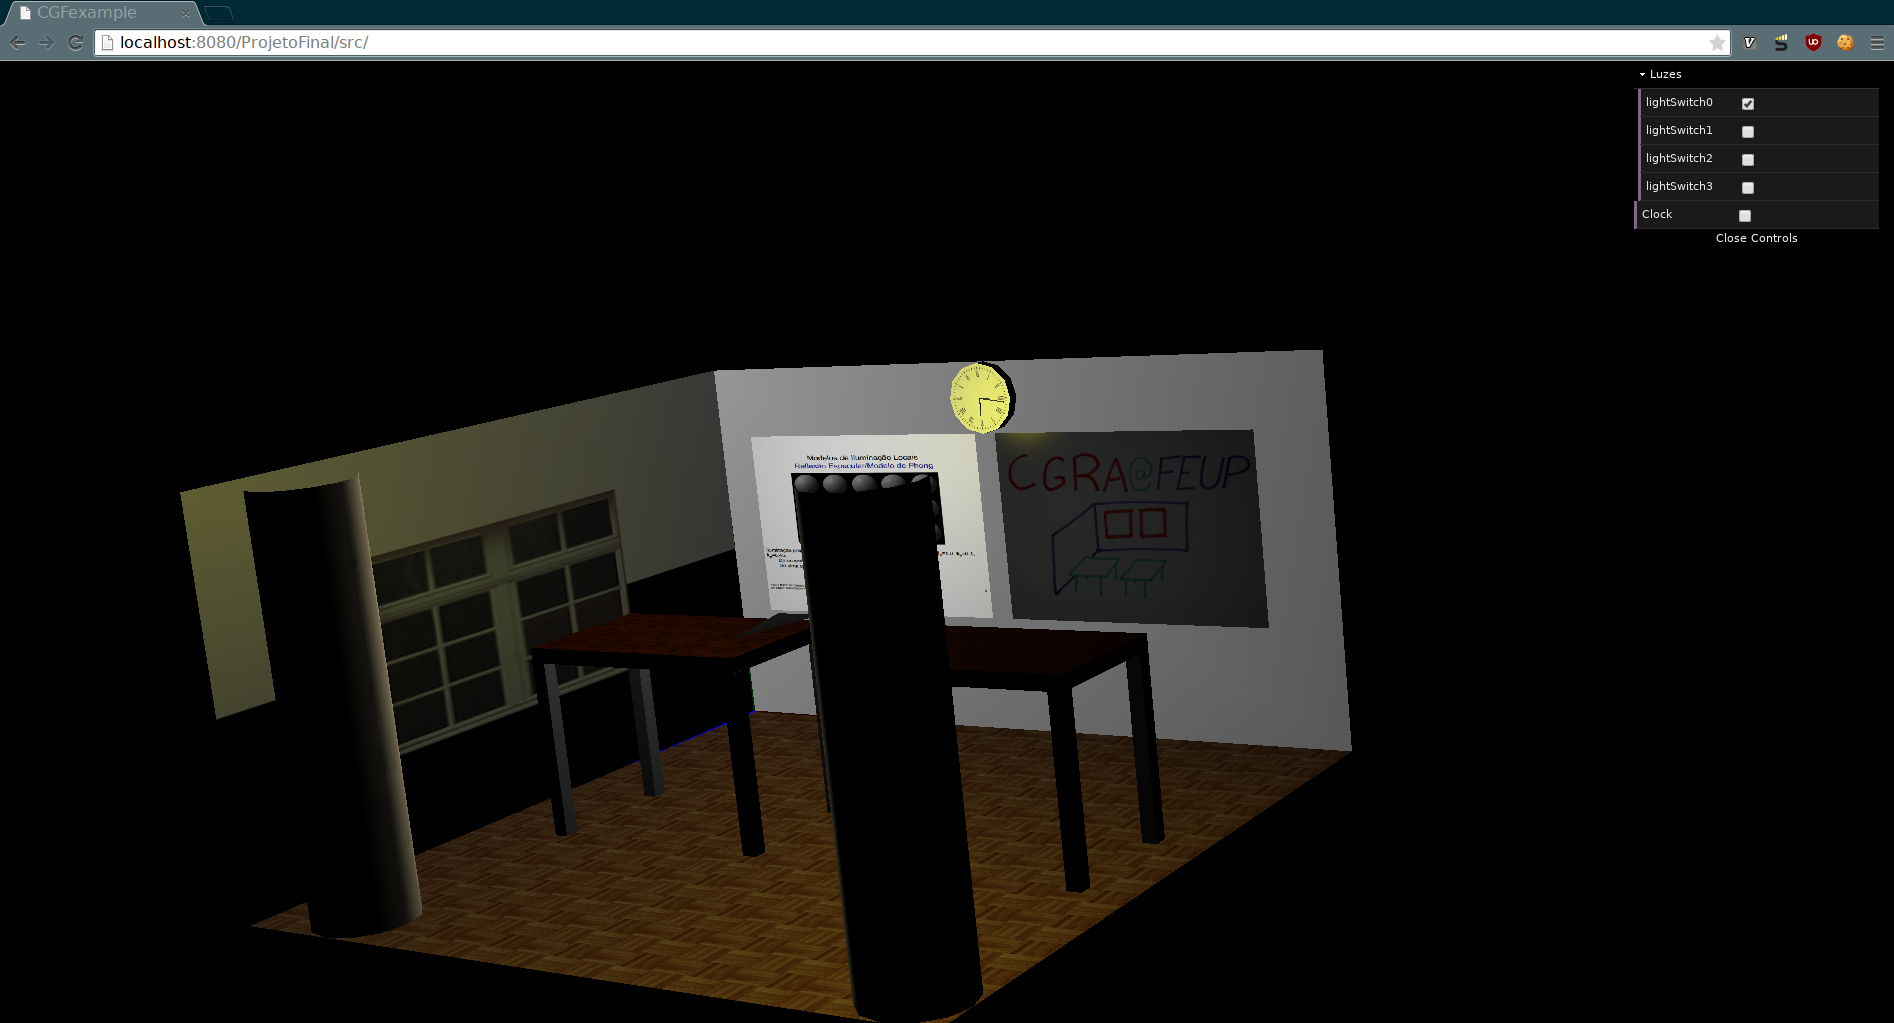
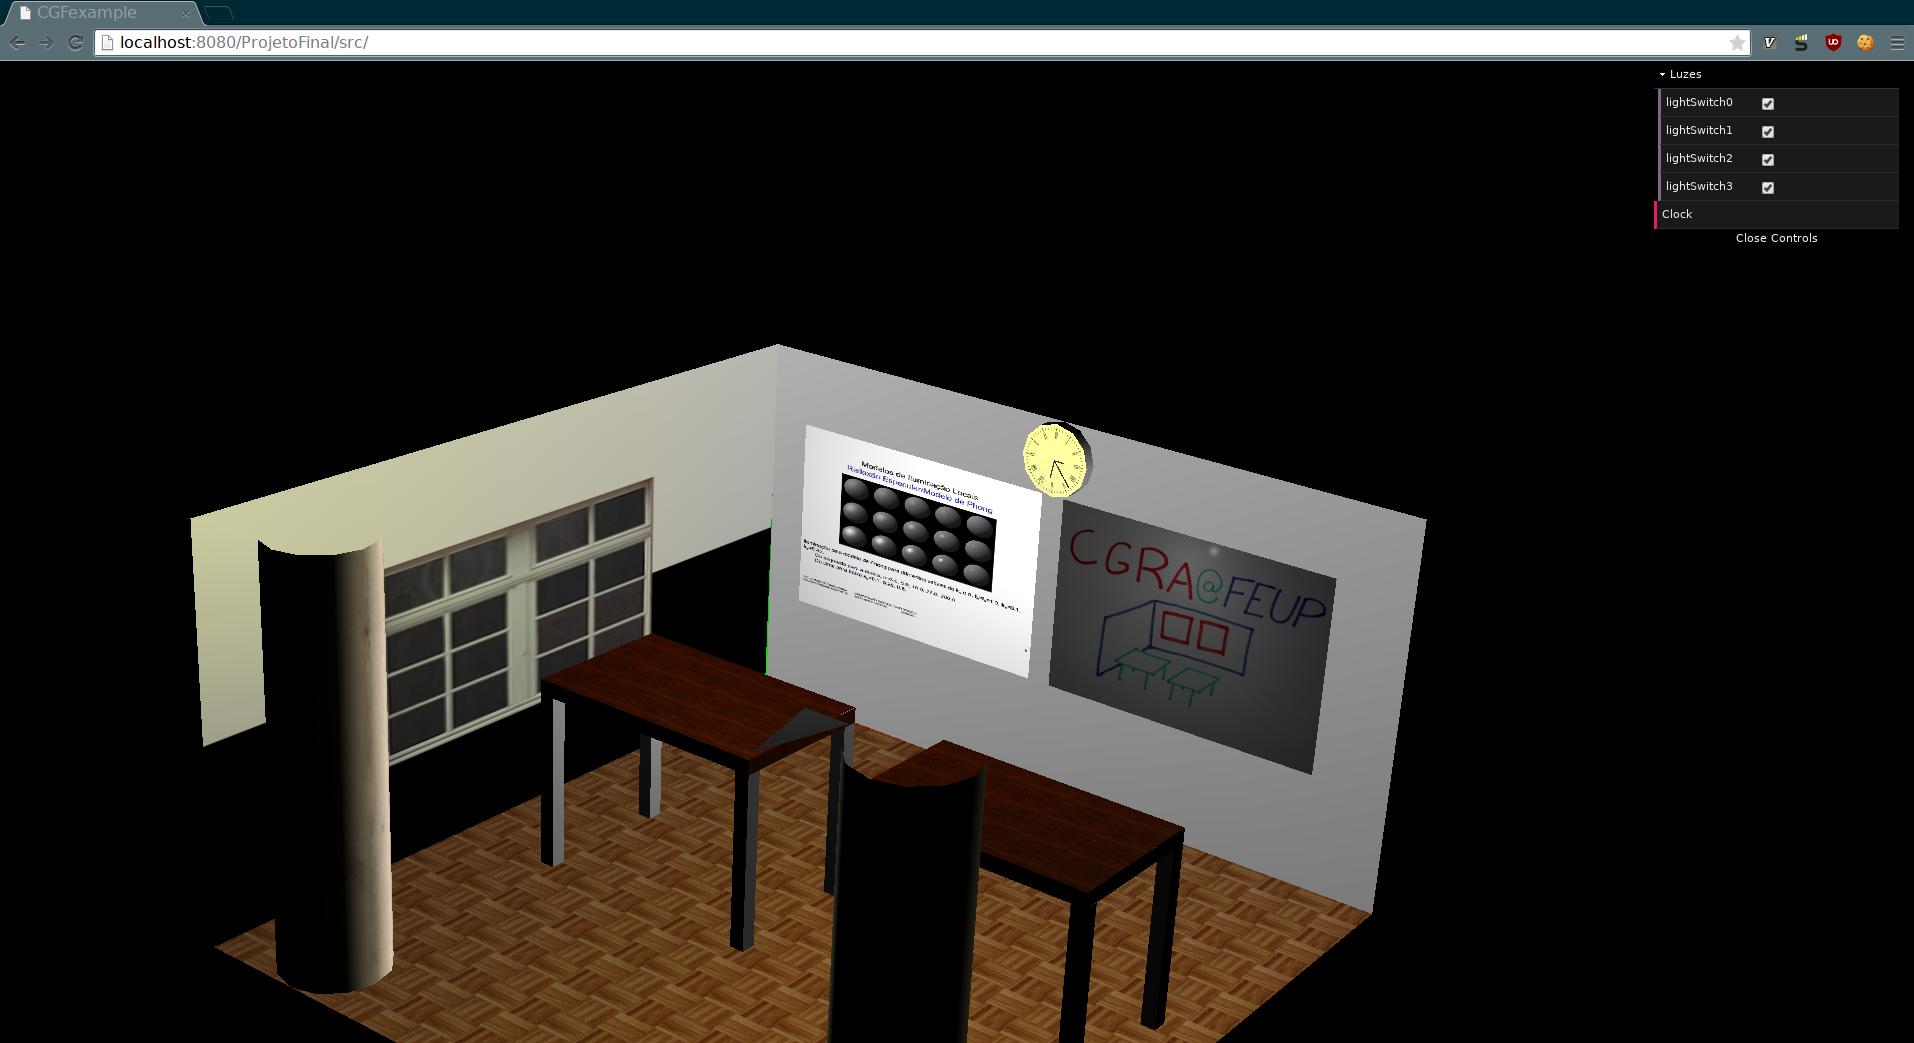
Clock button instead of checkbox

diff --git a/ProjetoFinal/src/LightingScene.js b/ProjetoFinal/src/LightingScene.js
@@ -24,7 +24,8 @@ LightingScene.prototype.init = function(application) {
     this.lightSwitch2 = true;
     this.lightSwitch3 = true;
 
-    this.Clock = true;
+    this.clockOn = true;
+    this.Clock = function(){this.clockOn = !this.clockOn;};
 
 	  this.initCameras();
 
@@ -308,7 +309,7 @@ LightingScene.prototype.display = function() {
 };
 
 LightingScene.prototype.update = function(currTime) {
-    if(this.Clock)
+    if(this.clockOn)
     {
         this.clock.update(currTime - this.time_d);
     }
